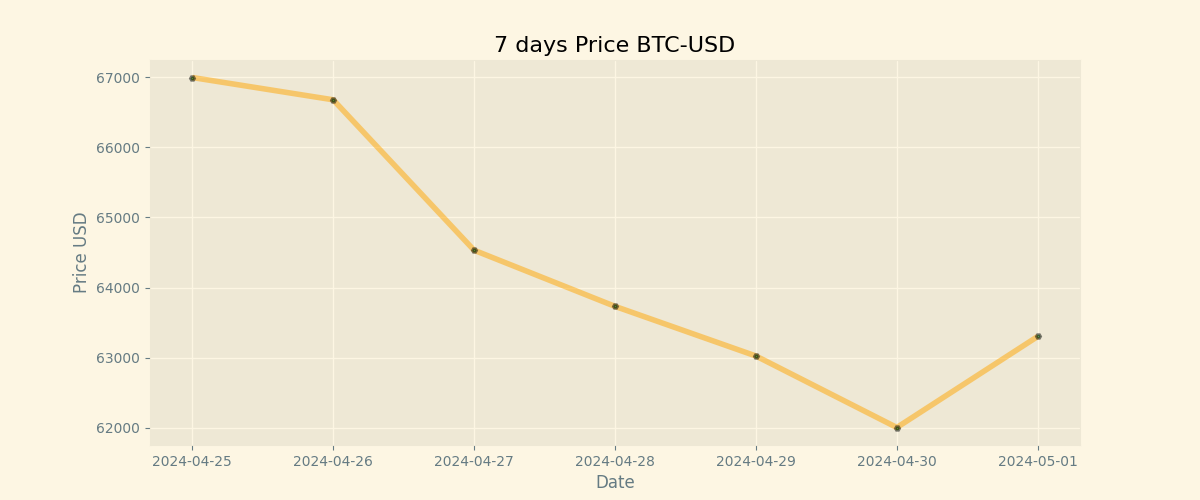
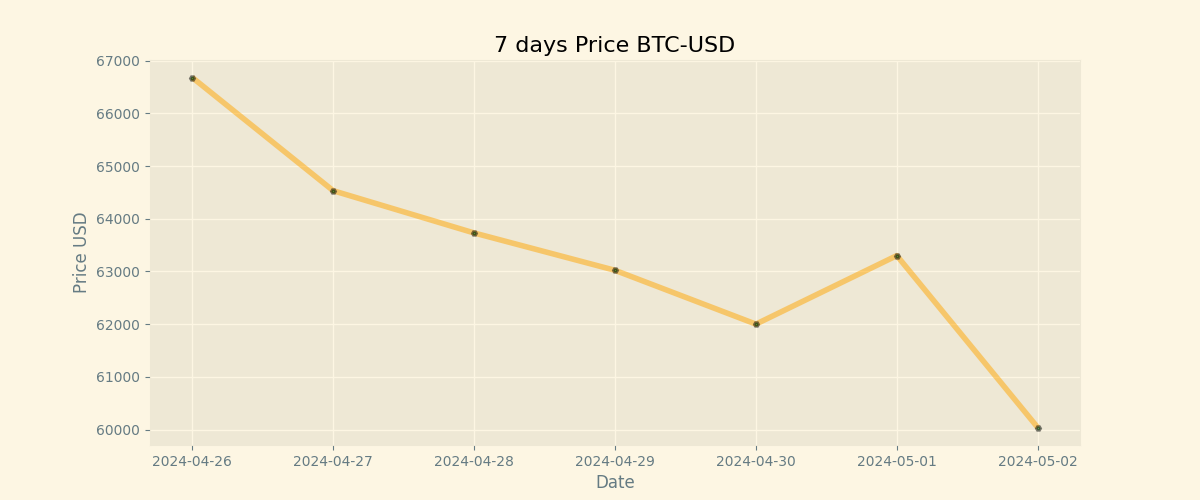
Duty Updates 2024-05-02

diff --git a/README.md b/README.md
@@ -9,8 +9,8 @@
 
 | Currency | Price           |
 | -------- | --------------- |
-| **BTC**  | **$ 63301.01** |
-| **ETH**  | **$ 3140.95** |
+| **BTC**  | **$ 60040.0** |
+| **ETH**  | **$ 2890.06** |
 
 ## BTC chart
 
